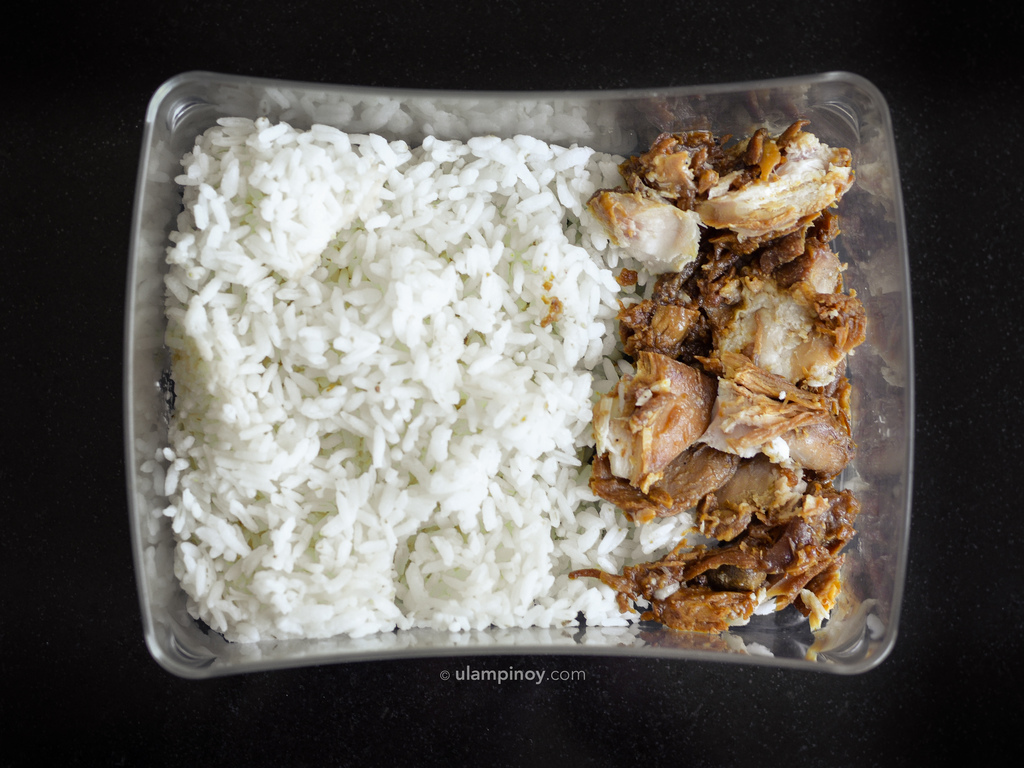
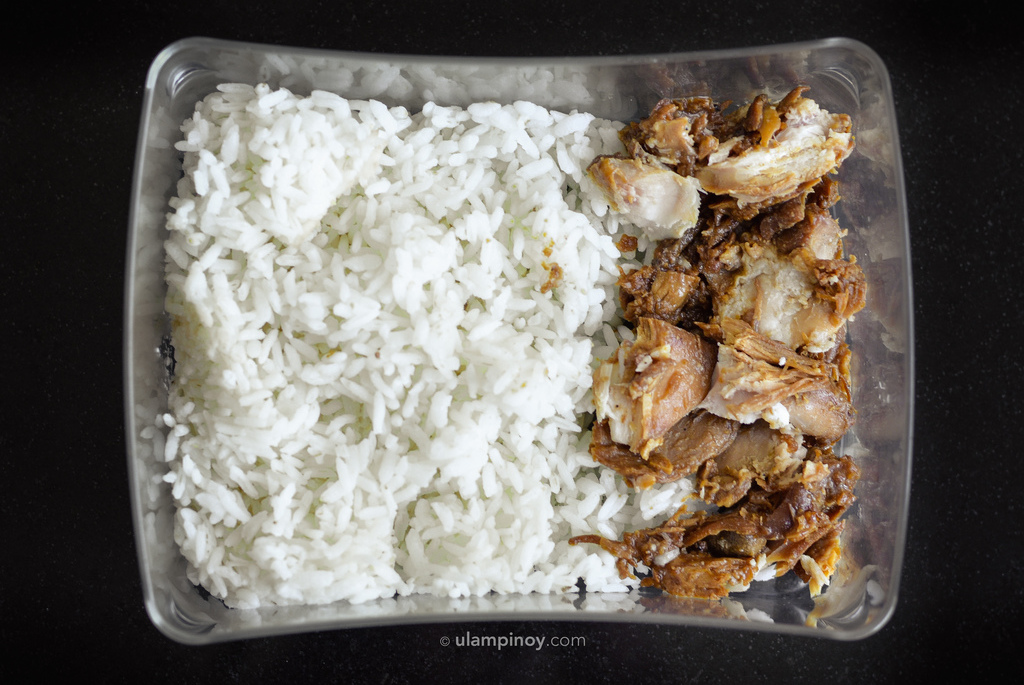
new post: tupper; new photos

diff --git a/index.html b/index.html
@@ -31,7 +31,7 @@ layout: home
     </div>
 
     <div class="pure-g latest-posts">
-      {% for post in site.posts | limit: 3%}
+      {% for post in site.categories.featured | limit: 3%}
       <div class="pure-u-1 pure-u-md-1-3">
         <article class="post">
           <a href="{{ site.baseurl }}{{ post.url }}"><img class="pure-img" src="{{ post.photo }}" /></a>

diff --git a/_scss/layout/up_t01.scss b/_scss/layout/up_t01.scss
@@ -222,7 +222,7 @@ a.pure-button-primary {
 }
 
 .home-menu {
-    background: rgba(0, 0, 0, .64);
+    background: rgba(0, 0, 0, .72);
     a:hover {
         text-decoration: none !important;
     }

diff --git a/_posts/2013-06-23-tupperlicious-chicken-adobo-and-spinach-laing.md b/_posts/2013-06-23-tupperlicious-chicken-adobo-and-spinach-laing.md
@@ -1,0 +1,31 @@
+---
+layout: post
+title:  "Tupperlicious – Chicken Adobo and Spinach Laing"
+date:   2013-06-23 00:00:01
+categories: baon lunchbox featured
+excerpt: Shredded chicken adobo and spinach laing
+photo: /assets/photos/tupper-rice-chicken-adobo.jpg
+---
+
+**Chicken Adobo** – this is the leftover adobo but more flavorful – more concentrated as a result of post-marination of the meat in its sauce. 
+
+<div class="pure-g">
+    <div class="pure-u-1-1">
+    	<div class="l-box">
+    		<img class="pure-img" src="/assets/photos/chicken-adobo-tuyo.jpg" alt="Chicken adobong tuyo">
+    	</div>
+    </div>
+</div>
+
+
+**Spinach Laing** – a special version of the traditional laing made of taro leaves! 
+
+<div class="pure-g">
+    <div class="pure-u-1-1">
+    	<div class="l-box">
+    		<img class="pure-img" src="/assets/photos/tupper-spinach-laing.jpg" alt="Lunchbox of rice and laing of spinach">
+    	</div>
+    </div>
+</div>
+
+We've got some dried dilis (anchovies) and this time sautéed in bagoong alamang (fermented shrimp paste).

diff --git a/_posts/2015-07-01-tumaca.md b/_posts/2015-07-01-tumaca.md
@@ -2,7 +2,7 @@
 layout: post
 title:  "Jamón Tumaca"
 date:   2015-07-01 00:00:01
-categories: adventure spain
+categories: adventure spain featured
 excerpt: Spanish breakfast of bread, tomato, virgin olive oil and layer of cured ham
 photo: /assets/photos/jamon-tumaca.jpg
 ---

diff --git a/_posts/2015-06-22-ulampinoy-dos.md b/_posts/2015-06-22-ulampinoy-dos.md
@@ -2,7 +2,7 @@
 layout: post
 title:  "Currently, cooking…"
 date:   2015-07-04 23:00:32
-categories: update ulampinoy
+categories: update ulampinoy featured
 excerpt: We are redesigning UlamPinoy. Stay tuned…
 photo: /assets/photos/caldero-on-top-wood-stove.jpg
 ---

diff --git a/_posts/2015-06-26-churros-chocolate.md b/_posts/2015-06-26-churros-chocolate.md
@@ -29,6 +29,3 @@ Churros ready! Skimmed and drained from the hot oil with the help of a steel rod
 
 Churrería Art – empty plastic jars of chocolate if you are buying for to go. 
 Enjoy the warm and tasty *churros y chocolate.*
-
-<i class="fa fa-heart"></i>
-
